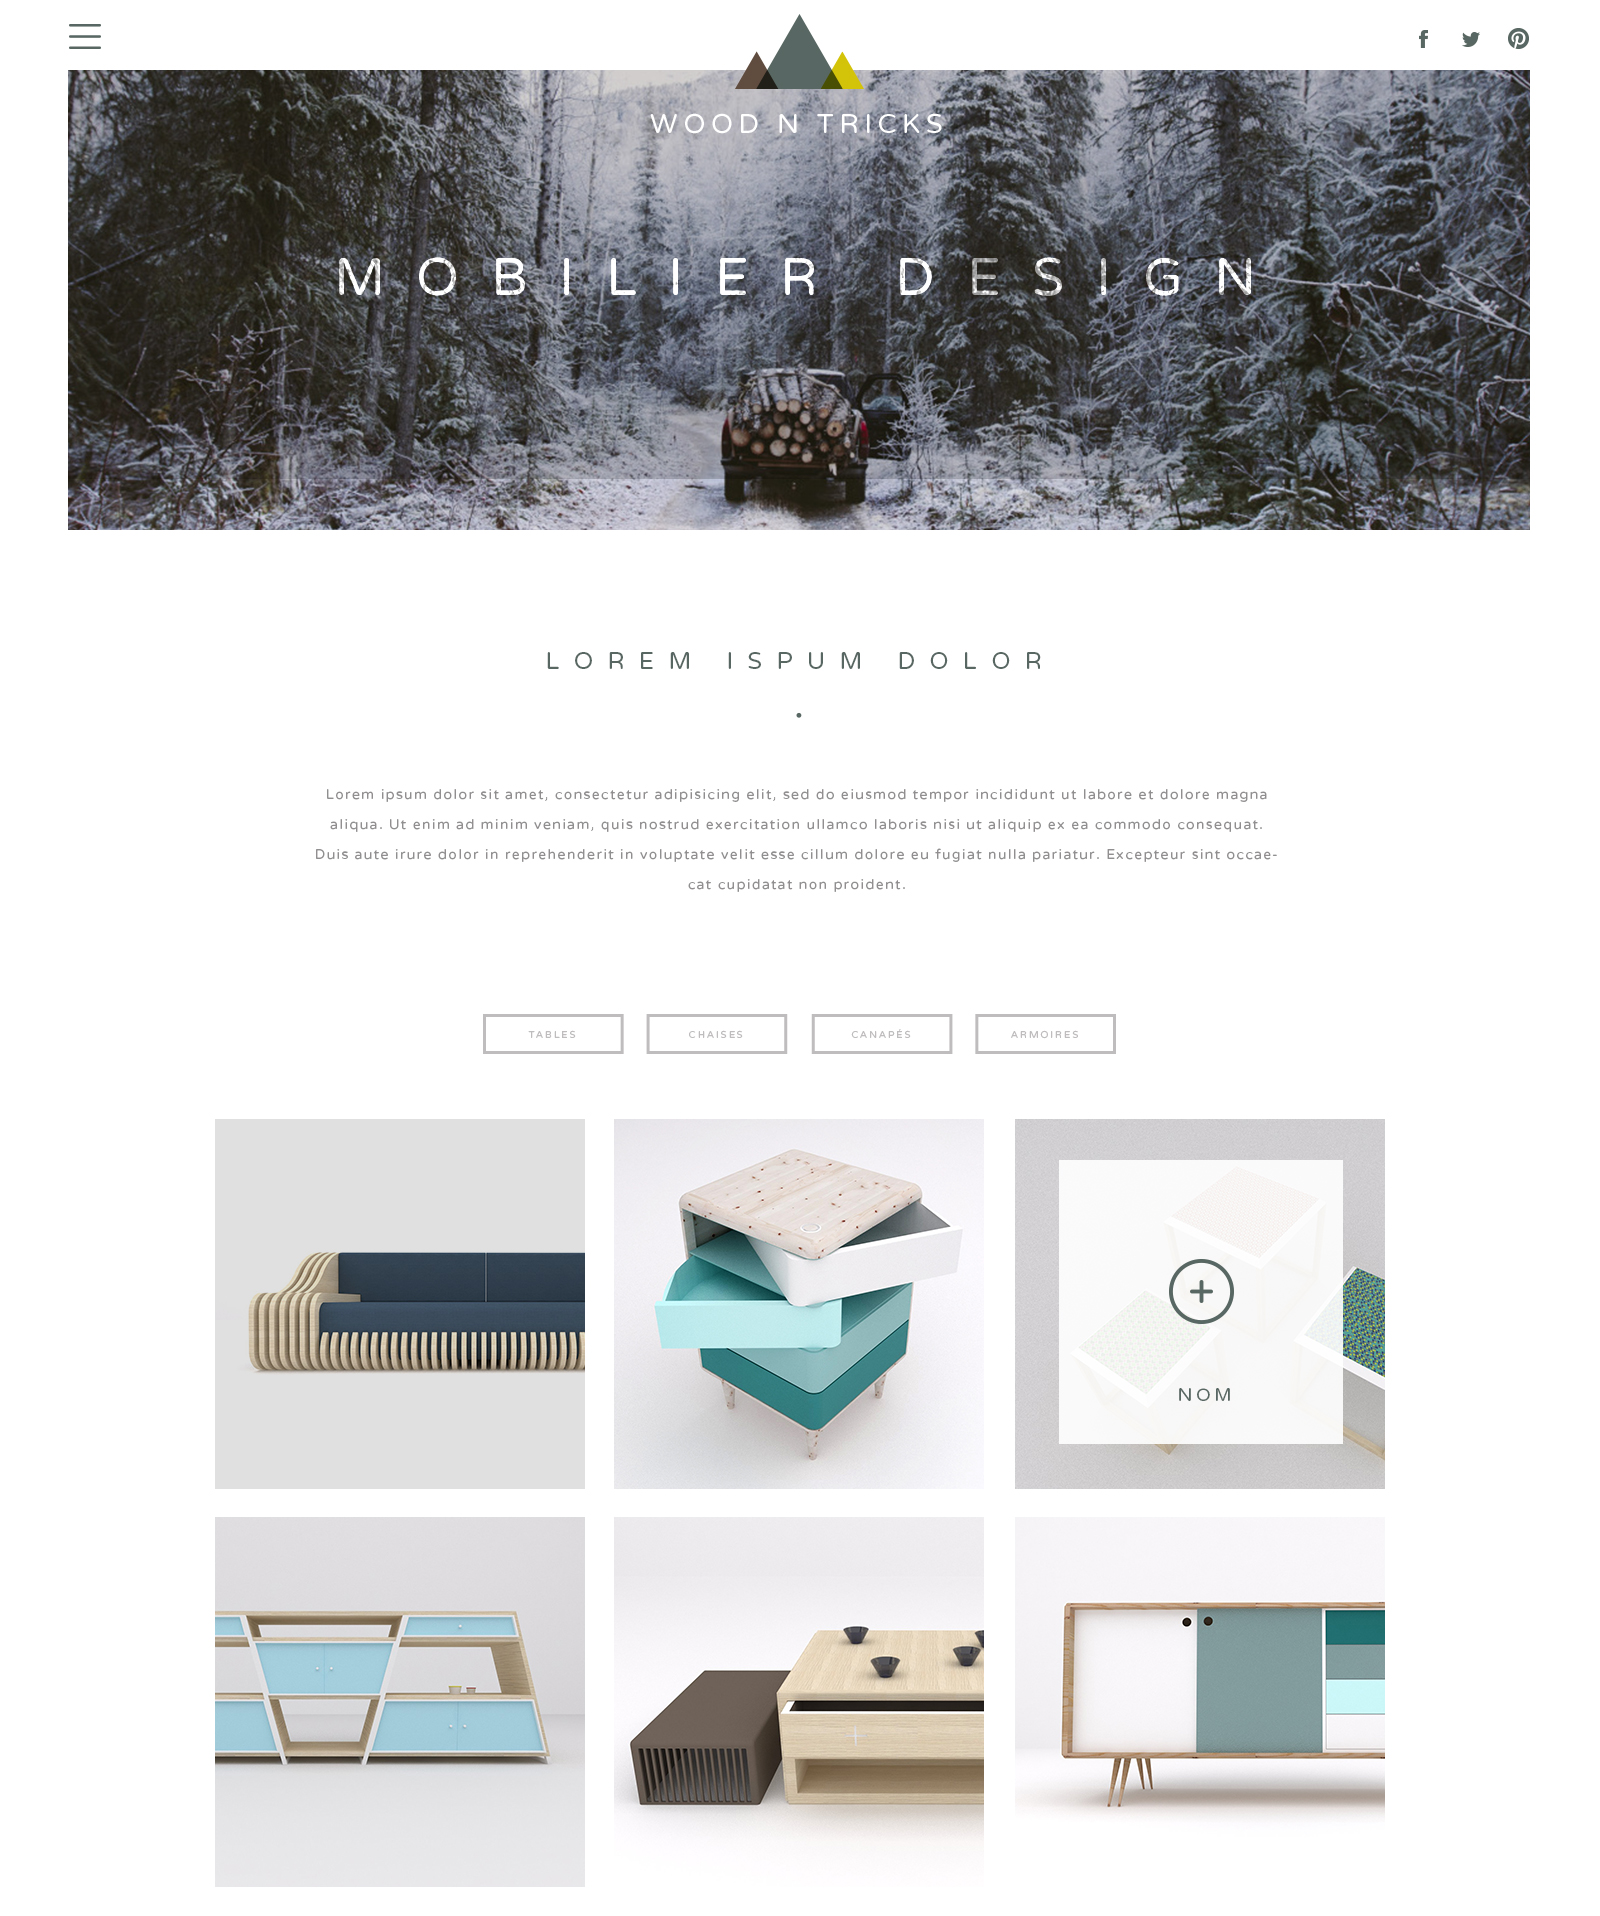
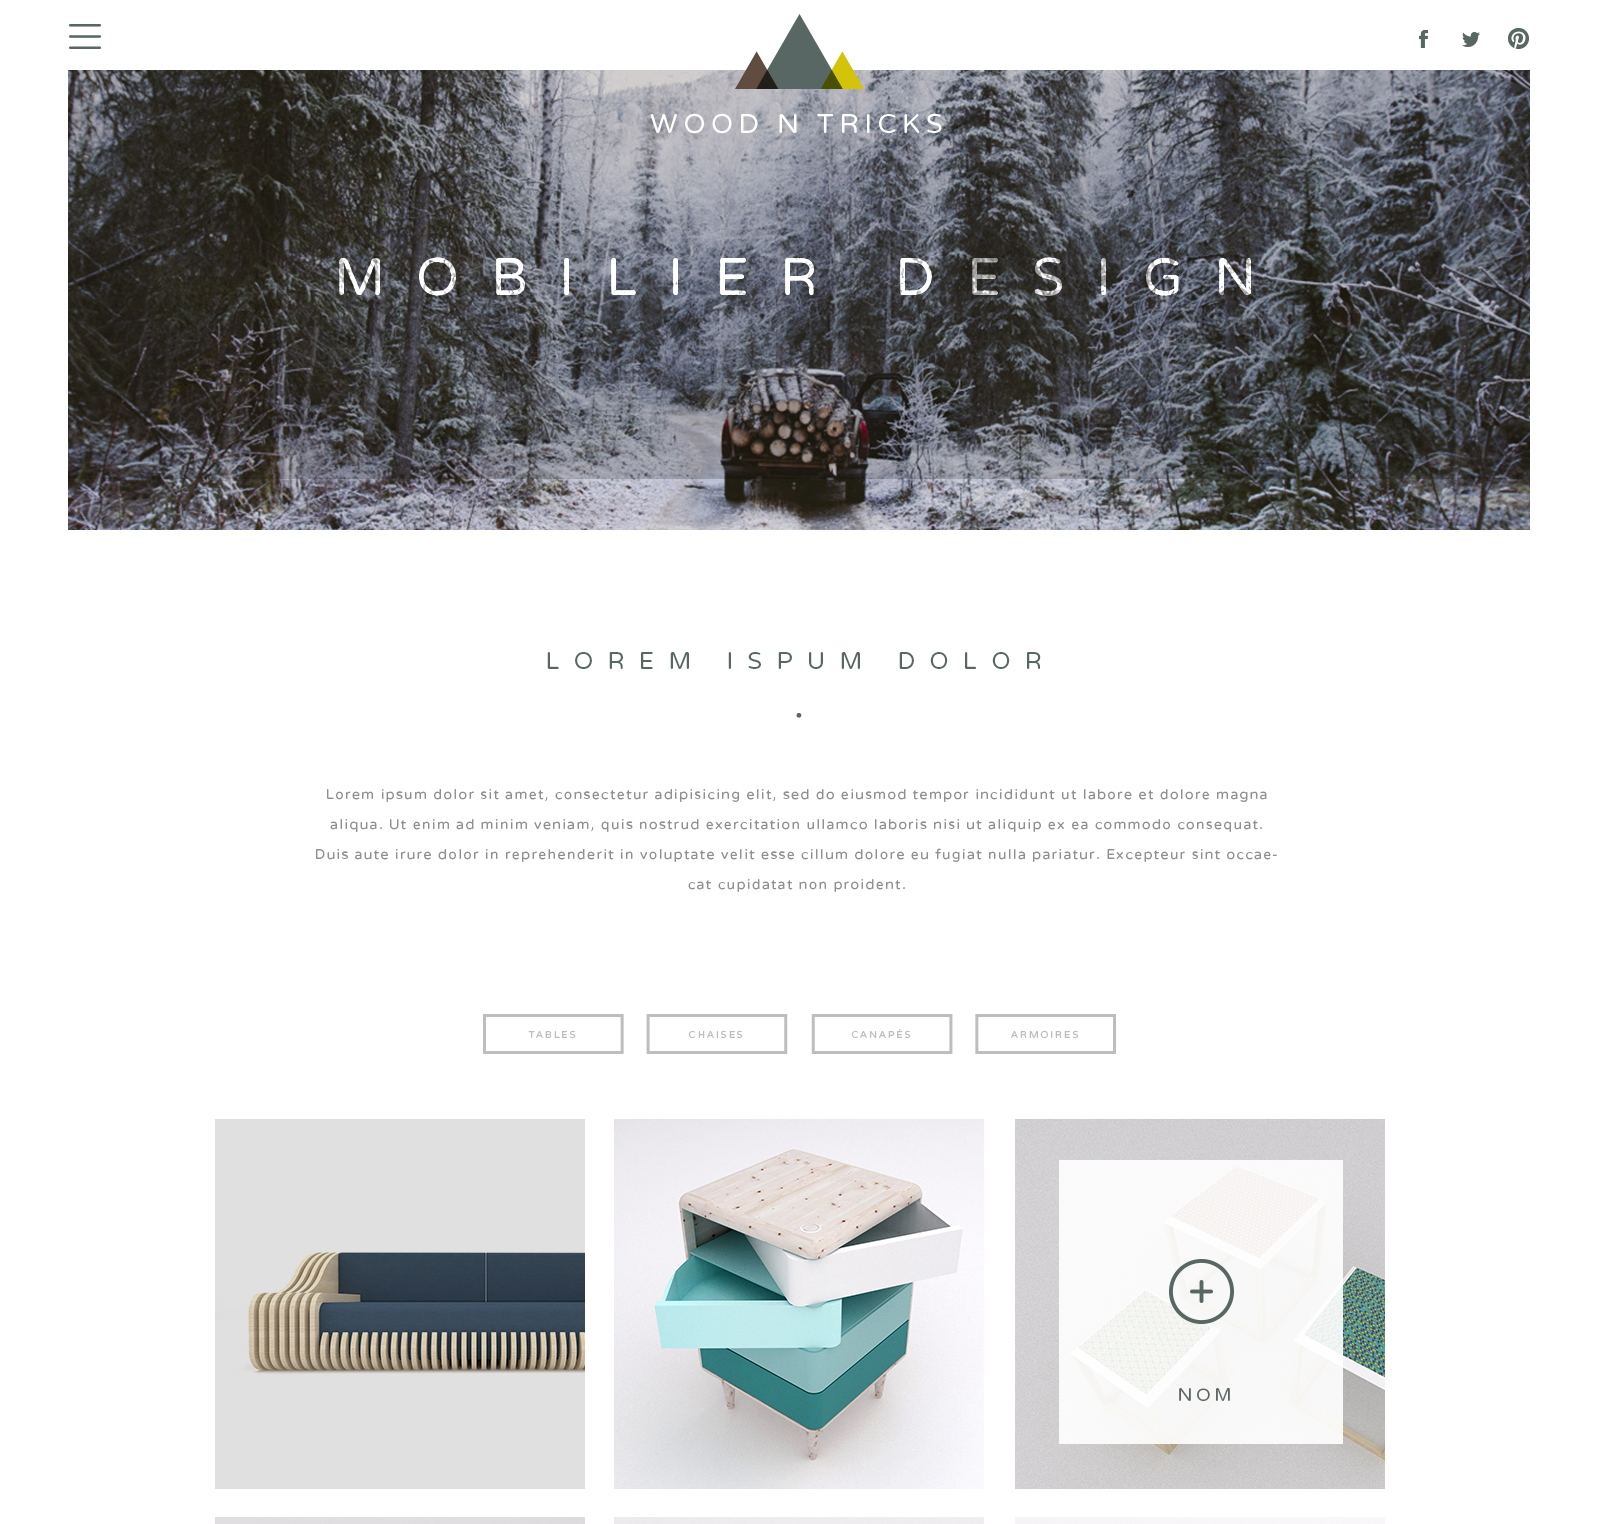
update index and contact pages

diff --git a/index.html b/index.html
@@ -6,7 +6,12 @@
     <meta http-equiv="X-UA-Compatible" content="IE=edge">
     <meta name="viewport" content="width=device-width, initial-scale=1">
     <!-- The above 3 meta tags *must* come first in the head; any other head content must come *after* these tags -->
-    <title>Box personal portfolio Template</title>
+    <title>Hafsa Danguir awesome website</title>
+    <meta property="og:title" content="Hafsa Danguir awesome website" />
+    <meta property="og:type" content="portfolio" />
+    <meta property="og:url" content="img/decathlon.jpg" />
+    <meta property="og:image" content="img/decathlon.jpg" />
+
     <link rel="icon" href="img/fav.png" type="image/x-icon">
 
     <!-- Bootstrap -->
@@ -77,6 +82,7 @@
         </nav>
         <!-- end nav -->
 
+
         <!-- box-intro -->
         <section class="box-intro">
             <div class="table-cell">
@@ -91,7 +97,15 @@
                 <h5>My name is Hafsa and I am a digital project manager from Lille, France.
                   I am currently available for hire, and looking for a full time position.
                   Feel free to contact me on hafsa.danguir [at] gmail.com.</h5>
-            </div>
+
+
+                  <ul class="social-ul">
+                  <li class="box-social"><a href="#0"><i class="ion-social-facebook"></i></a></li>
+                  <li class="box-social"><a href="#0"><i class="ion-social-instagram-outline"></i></a></li>
+                  <li class="box-social"><a href="#0"><i class="ion-social-twitter"></i></a></li>
+                  <li class="box-social"><a href="#0"><i class="ion-social-dribbble"></i></a></li>
+              </ul>
+              </div>
 
             <div class="mouse">
                 <div class="scroll"></div>
@@ -99,10 +113,20 @@
         </section>
         <!-- end box-intro -->
     </div>
+    <div class="container main-container box-intro-work" style="background-color: #FAFAFA;">
+            <div class="clearfix">
+          <h2 style="text-align: center;"><span style="color: rgba(255, 191, 0, 0.8);">LATEST WORK</span></h2>
+          <p style="text-align: center;">SHOWCASING A SELECTION OF CAREFULLY CRAFTED CONCEPTS &amp; SAMPLES FROM<br>
+          PAST &amp; CURRENT CONCEPTS, DESIGN AND CODE RELATED PROJECTS.<br>
+          TO INSPIRE, DISRUPT &amp; SOLVE PROBLEMS.</p>
+          <div class="h-10"></div>
 
+            </div>
+        </div>
     <!-- portfolio div -->
     <div class="portfolio-div">
         <div class="portfolio">
+
             <div class="no-padding portfolio_container">
 
                 <!-- single work -->
@@ -166,6 +190,37 @@
     </div>
     <!-- end portfolio div -->
 
+    <div class="container main-container clearfix">
+        <div class="col-md-6">
+            <img src="http://placehold.it/1200x800" class="img-responsive" alt="">
+        </div>
+        <div class="col-md-6">
+           <h3 class="uppercase">About Me </h3>
+           <h5>Creative &amp; Lorem ipsum dolor sit amet</h5>
+           <div class="h-30"></div>
+            <p>Lorem ipsum dolor sit amet, consectetur adipiscing elit. Aliter enim nosmet ipsos nosse non possumus. Inscite autem medicinae et gubernationis ultimum cum ultimo sapientiae comparatur. Tecum optime, deinde etiam cum mediocri amico. Et nemo nimium beatus est; Ac ne plura complectar-sunt enim innumerabilia-, bene laudata virtus voluptatis aditus </p>
+
+            <p>Tum ille: Tu autem cum ipse tantum librorum habeas, quos hic tandem requiris? Esse enim quam vellet iniquus iustus poterat inpune. </p>
+            <div class="h-10"></div>
+            <ul class="social-ul">
+                <li class="box-social"><a href="#0"><i class="ion-social-facebook"></i></a></li>
+                <li class="box-social"><a href="#0"><i class="ion-social-instagram-outline"></i></a></li>
+                <li class="box-social"><a href="#0"><i class="ion-social-twitter"></i></a></li>
+                <li class="box-social"><a href="#0"><i class="ion-social-dribbble"></i></a></li>
+            </ul>
+
+
+        </div>
+    </div>
+
+    <!-- top bar -->
+    <div class="top-bar">
+        <h1>I’D LOVE TO HEAR FROM YOU, I’LL BE HAPPY TO GET BACK TO YOU NEXT 24 HOUR.</h1>
+        <p><a href="#">FEEL FREE TO REACH OUT ANYTIME </a></p>
+        <div class="col-md-12">
+            <a href="https://hafsa25.typeform.com/to/TOjMoa" class="btn btn-box">Go to wanderland</a>
+        </div>
+    </div>
     <!-- footer -->
     <footer>
         <div class="container-fluid">

diff --git a/css/style.css b/css/style.css
@@ -176,7 +176,6 @@ h5 {
 
 /* headr
 ==================================================*/
-
 .box-header {
     position: absolute;
     top: 0;
@@ -683,6 +682,13 @@ b i:last-child {
     }
 }
 
+/* portfolio section work into
+==================================================*/
+
+.box-intro-work {
+    text-align: center;
+    background-color: rgba(255, 191, 0, 0.8);
+}
 
 /* portfolio section
 ==================================================*/
@@ -902,11 +908,11 @@ footer img {
 }
 
 .top-bar h1 {
-    font-size: 60px;
-    text-transform: uppercase;
-    font-weight: 700;
-    color: #999;
-    line-height: 50px;
+  font-size: 40px;
+  text-transform: uppercase;
+  font-weight: 700;
+  color: #FFF;
+  line-height: 50px;
 }
 
 .top-bar p {

diff --git a/contact.html b/contact.html
@@ -82,8 +82,8 @@
 
     <!-- top bar -->
     <div class="top-bar">
-        <h1>contact Me</h1>
-        <p><a href="#">Home</a> / Contact Me</p>
+        <h1>I’D LOVE TO HEAR FROM YOU</h1>
+        <p><a href="#">FEEL FREE TO REACH OUT ANYTIME </a></p>
         <div class="col-md-12">
             <a href="https://hafsa25.typeform.com/to/TOjMoa" class="btn btn-box">Go to wanderland</a>
         </div>
